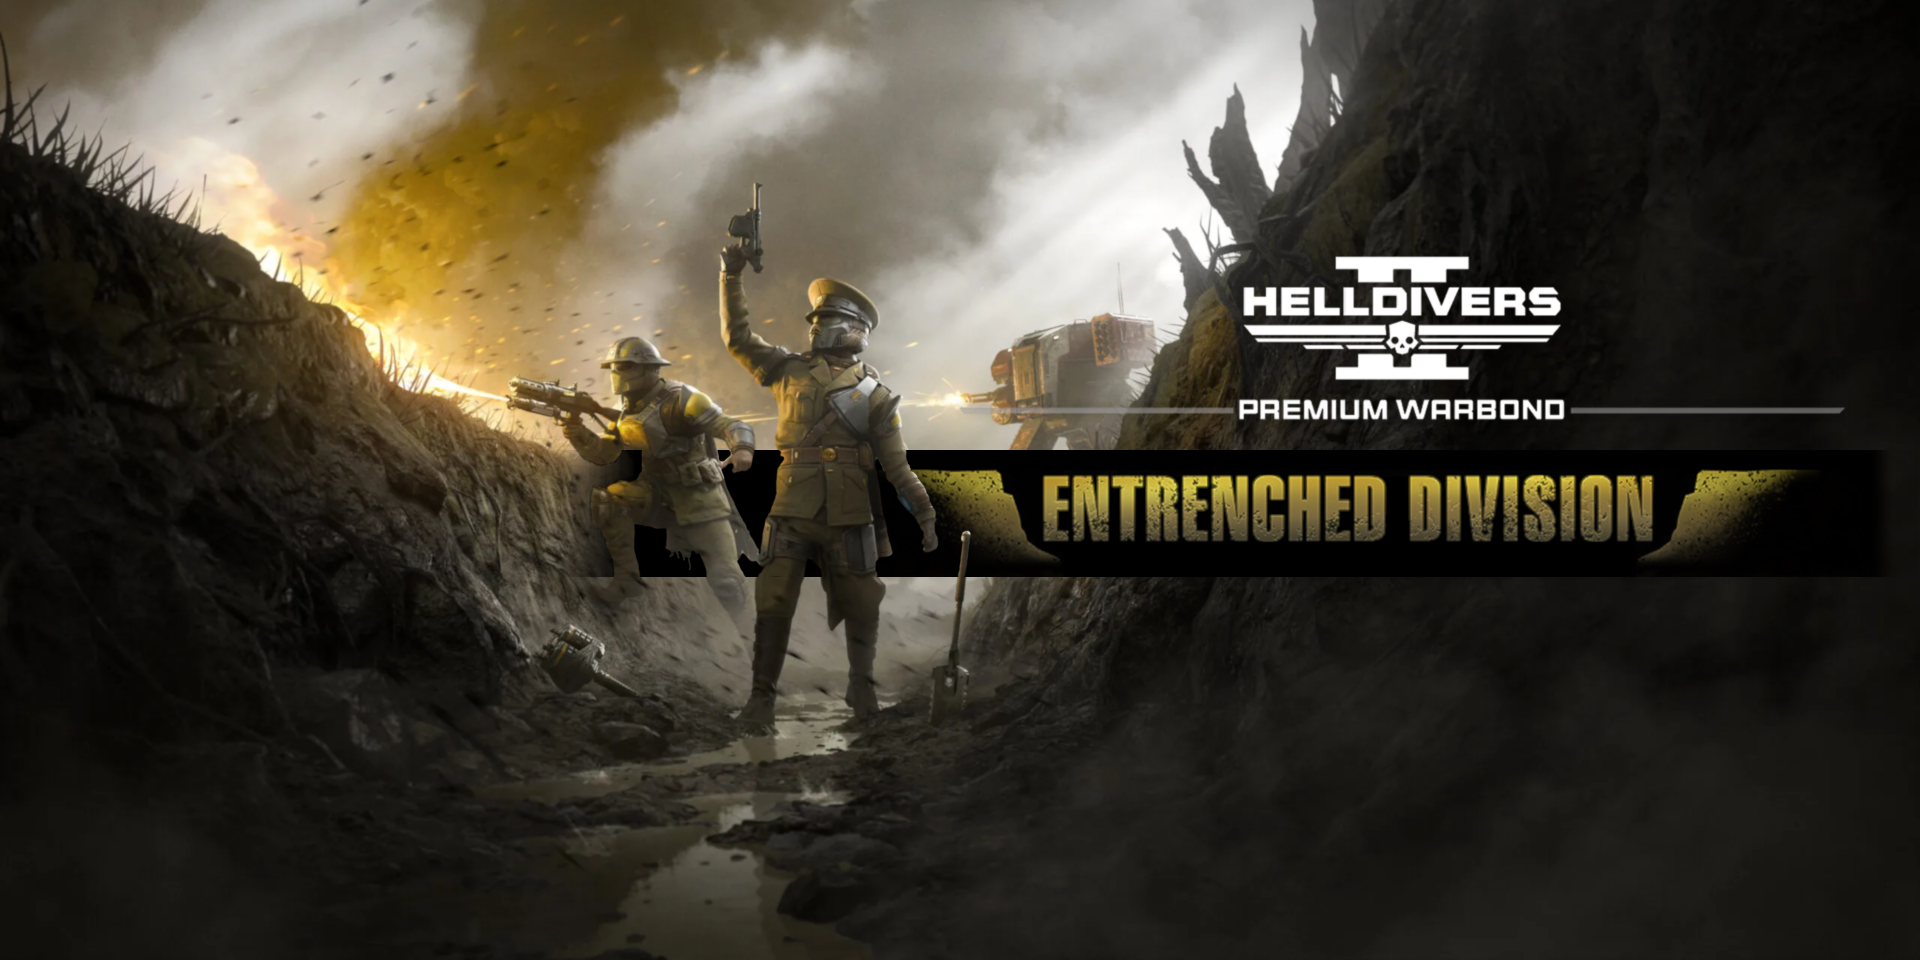
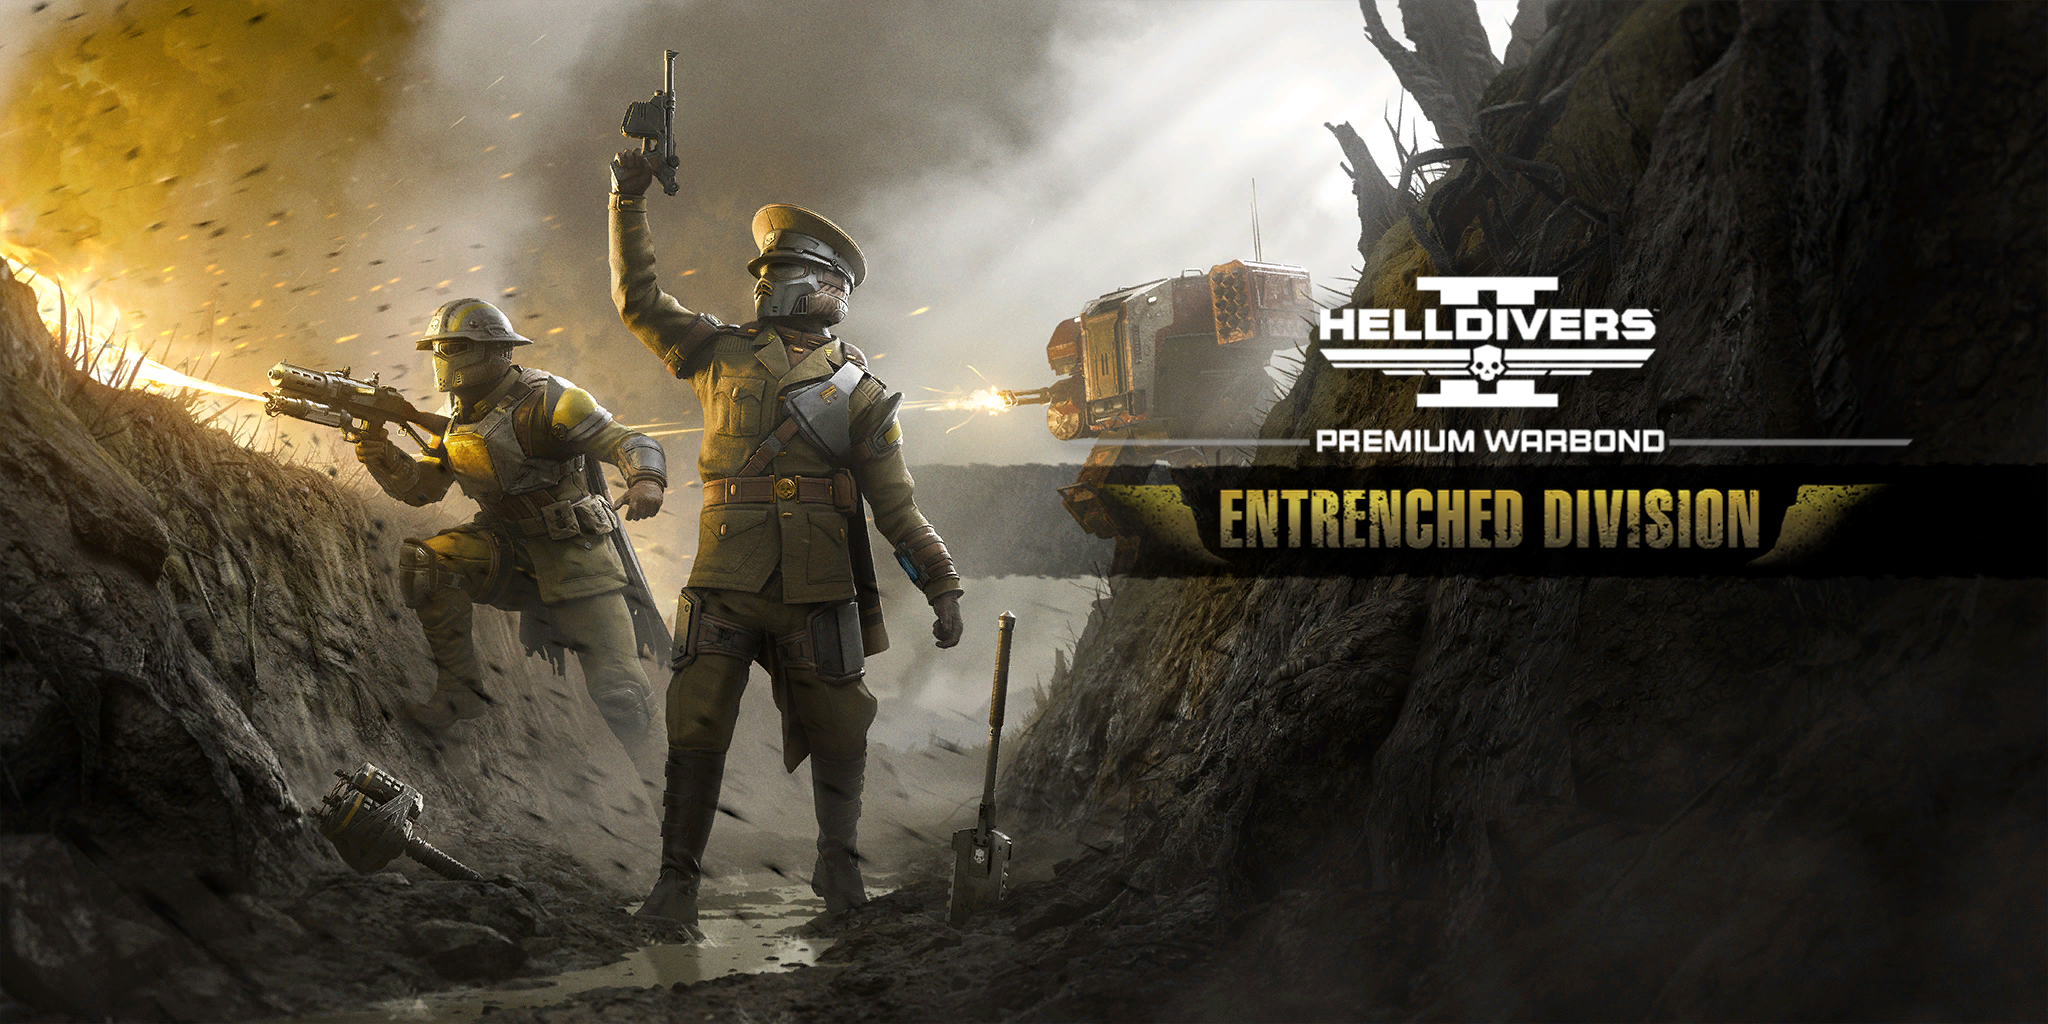
entrenched division better image and new style

diff --git a/app/styles.css b/app/styles.css
@@ -155,6 +155,18 @@ html.oled {
         url('../assets/styles/warbonds/Halo_ODST_Legendary_Warbond_Cover_Art.png');
 }
 
+[data-theme="entrenched-division"] {
+    --color-background: #080604;
+    --color-primary: #c4872a;
+    --color-text:    #c8b888;
+    --color-background-secondary: #100c06;
+    --color-text-secondary: #93793f;
+    --color-banner: rgba(5, 4, 3, 0.88);
+    --color-background-image:
+        linear-gradient(rgba(8, 6, 4, 0.72), rgba(8, 6, 4, 0.72)),
+        url('../assets/styles/warbonds/Entrenched_Division_Premium_Warbond_Marketing_13.png');
+}
+
 /* Warbond Previews */
 [data-theme="siege-breakers"] {
     --color-background: #0f0400;

diff --git a/views/styles.html b/views/styles.html
@@ -59,6 +59,7 @@
                 <div class="settings-section-body">
                     <div class="settings-buttons">
                         <button class="theme-btn" data-theme="odst">ODST</button>
+                        <button class="theme-btn" data-theme="entrenched-division">Entrenched Division</button>
                     </div>
                 </div>
             </div>

diff --git a/CHANGELOG.md b/CHANGELOG.md
@@ -5,7 +5,8 @@ All notable changes to this project will be documented in this file.
 The format is based on [Keep a Changelog](https://keepachangelog.com/en/1.1.0/),
 and this project adheres to [Semantic Versioning](https://semver.org/spec/v2.0.0.html).
 
-[unreleased]: https://github.com/johnarp/warbond-tracker/compare/v1.3.2...HEAD
+[1.3.4]: https://github.com/johnarp/warbond-tracker/compare/v1.3.3...v1.3.4
+[1.3.3]: https://github.com/johnarp/warbond-tracker/compare/v1.3.2...v1.3.3
 [1.3.2]: https://github.com/johnarp/warbond-tracker/compare/v1.3.1...v1.3.2
 [1.3.1]: https://github.com/johnarp/warbond-tracker/compare/v1.3.0...v1.3.1
 [1.3.0]: https://github.com/johnarp/warbond-tracker/compare/v1.2.2...v1.3.0
@@ -32,6 +33,16 @@ and this project adheres to [Semantic Versioning](https://semver.org/spec/v2.0.0
 [0.1.2]: https://github.com/johnarp/warbond-tracker/compare/0.1.1...0.1.2
 [0.1.1]: https://github.com/johnarp/warbond-tracker/compare/0.1.0...0.1.1
 [0.1.0]: https://github.com/johnarp/warbond-tracker/releases/tag/0.1.0
+
+## [1.3.4] - 2026-03-18
+
+### Added
+
+- Entrenched Division - Warbond Super Style
+
+### Changed
+
+- Better Entrenched Division image
 
 ## [1.3.3] - 2026-03-17
 
